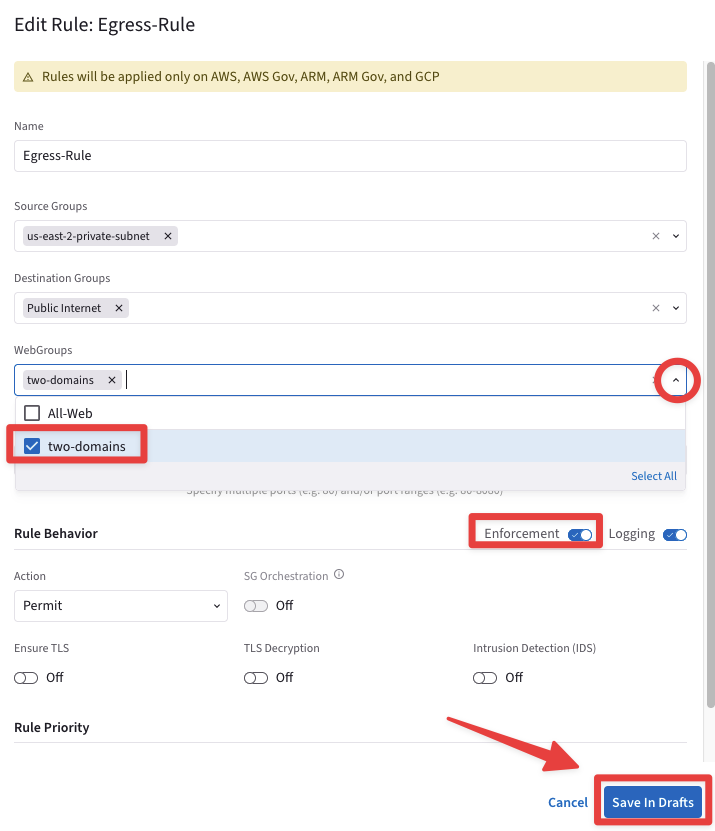
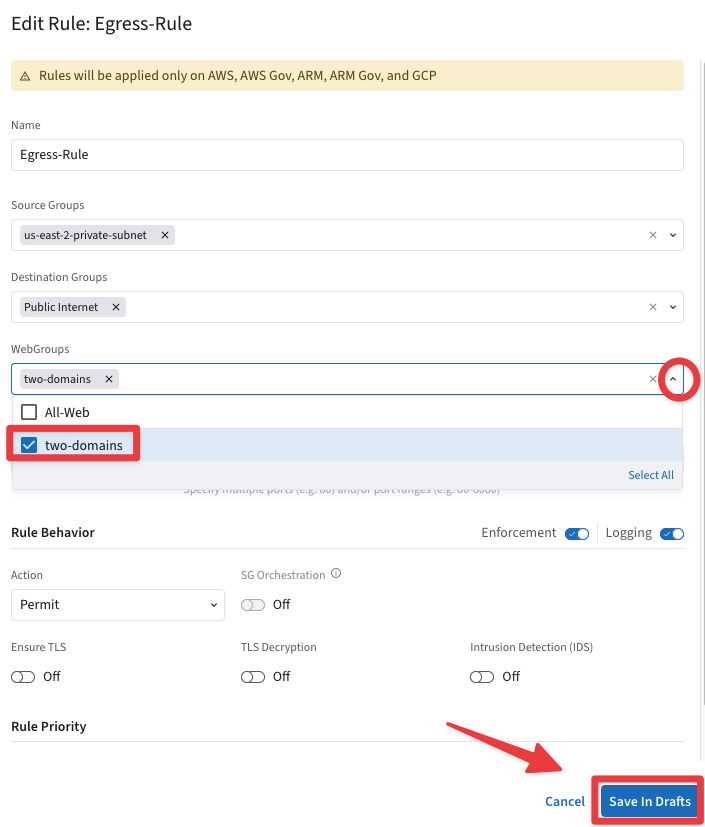
update for pro

diff --git a/ace_pro/docs/lab5.md b/ace_pro/docs/lab5.md
@@ -416,9 +416,7 @@ align: center
 ExplicitDenyAll
 ```
 
-
-
-## 7. Connectivity Testing after enabling ther Aviatrix Cloud Firewall
+## 7. Connectivity Testing after enabling the Aviatrix Cloud Firewall
 
 Let's verify how the TCP traffic generated by the Gatus got affected by the activation of the Aviatrix Cloud Firewall.
 
@@ -475,18 +473,6 @@ curl commands
 
 Go to **CoPilot > Security > Egress > Overview**, and you will see the visibility of the domain hits.
 
-```{figure} images/lab6-monitorpermit.png
----
-height: 200px
-align: center
----
-Monitor
-```
-
-Go to **CoPilot > Security > Egress > Overview (default)**
-
-Now you have finally the  **egress observability** with a full list of domains hit by the EC2 instance inside that private subnet.
-
 ```{figure} images/lab6-newrul12.png
 ---
 height: 400px
@@ -494,6 +480,8 @@ align: center
 ---
 Overview
 ```
+
+Now you have finally the  **Egress observability** with a full list of domains hit by the EC2 instance inside that private subnet.
 
 Furthermore, go to **CoPilot > Security > Egress > Monitor** and from the `"VPC/VNets"` drop-down window, select the **_aws-us-east-2-spoke1 VPC_**.
 
@@ -507,8 +495,11 @@ Monitor
 
 You will get a granular Layer 7 visibility that allows you to get a good understanding of how the egress traffic has been consumed and also allows you to help make decisions on how to potentially optimize that.
 
-## 5. ZTNA - Zero Trust Network Architecture
-### 5.1 Create a New WebGroup
+## 8. ZTNA - Zero Trust Network Architecture
+
+Now we have enabled the `Zero Trust Network Access` approach, denying everything at the very bottom of the DCF rules list.
+
+### 8.1 Create a New WebGroup
 
 Let's move towards a posture where only specific egress domains are in place.
 
@@ -538,16 +529,21 @@ WebGroup creation
 ```
 
 ```{important}
-The purpose of this **WebGroup** is to authorize traffic only towards both the Domains *`www.aviatrix.com`* and *`www.wikipedia.com`*, therefore the curl commands issued towards other Domains will be blocked.
+The purpose of this **WebGroup** is to authorize traffic only to the domains *`www.aviatrix.com`* and *`www.wikipedia.com.`* Therefore, curl commands issued to other domains will be blocked.
 ```
 
-### 5.2 Create an _"editable"_ Explicit -Deny-Rule 
-#### 5.2.1 Enforce the Egress-Rule
+### 8.2 Edit the Egress-Rule 
 
 Go to **CoPilot > Security > Distributed Cloud Firewall > Rules**, click on the **pencil** button on the right-hand side of the `Egress-Rule`.
 
+```{figure} images/lab6-webgroup2346.png
+---
+align: center
+---
+Pencil icon
+```
+
 - Now remove the WebGroup `"All-Web"` and then select the WebGroup `"two-domains"`.
-- Turn **ON** the `Enforcement` knob.
 
 Do not forget to click on **Save In Drafts** and then **Commit** your changes!
 
@@ -571,73 +567,7 @@ Commit the changes
 - **Publlic Internet** = Represents non-RFC 1918 IP ranges, or the public Internet
 ```
 
-After having successfully enforced the **Egress-Rule** you will notice that automatically ther Controller has applied at the very bottom, the `DefaultDenyAll` rule. 
-
-```{figure} images/lab6-webgroup23456.png
----
-height: 200px
-align: center
----
-Egress-Rule + DefaultDenyAll
-```
-
-However, <ins>this rule is NOT editable</ins>, therefore any matches against the DefaultDenyRule will not generate any logs.
-
-```{figure} images/lab6-defaultdenyall01.png
----
-height: 200px
-align: center
----
-Not editable
-```
-
-#### 5.2.2 Create an _ad-hoc_ Explicit-Deny-Rule
-
-Go to **CoPilot > Security > Distributed Cloud Firewall > Rules (default tab)** and create a new rule clicking on the `"+ Rule"` button.
-
-```{figure} images/lab6-defaultdenyall02.png
----
-height: 200px
-align: center
----
-Not editable
-```
-
-Insert the following parameters
-
-- **Name**: <span style='color:#479608'>Explicit-Deny-Rule</span>
-- **Source Smartgroups**: <span style='color:#479608'>Anywhere (0.0.0.0/0)</span>
-- **Destination Smartgroups**: <span style='color:#479608'>Anywhere (0.0.0.0/0)</span>
-- **Protocol**: <span style='color:#479608'>Any</span>
-- **Enforcement**: <span style='color:#479608'>**On**</span>
-- **Logging**: <span style='color:#479608'>On</span>
-- **Action**: <span style='color:#479608'>**Deny**</span>
-- **Rule Priority**:
-  - **Place Rule**: <span style='color:#479608'>**Below**</span>
-  - **Existing Rulee**: <span style='color:#479608'>**Egress-Rule**</span>
-
-Do not forget to click on **Save In Drafts**.
-
-```{figure} images/lab6-defaultdenyall03.png
----
-align: center
----
-_Editable_ Explicit-Deny-Rule
-```
-
-Do not forget to click on **Commit**.
-
-```{figure} images/lab6-defaultdenyall04.png
----
-height: 200px
-align: center
----
-Commit your changes
-```
-
-Now you have effectively activated the **ZTNA** approach.
-
-## 5.3 Test the modified rule
+### 8.3 Test the modified rule
 
 Go to **CoPilot > Security > Distributed Cloud Firewall > Monitor** and turn on the toggle **_Auto Refresh_**.
 
